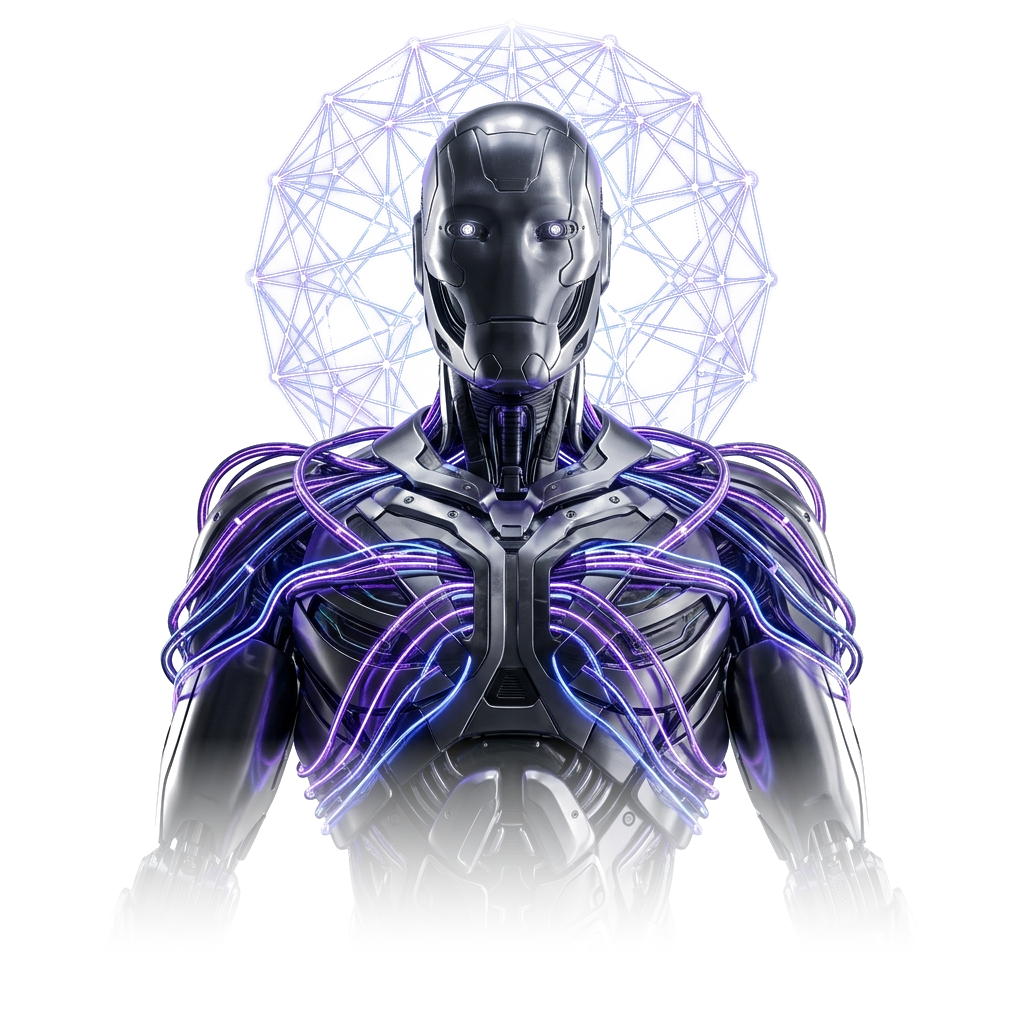
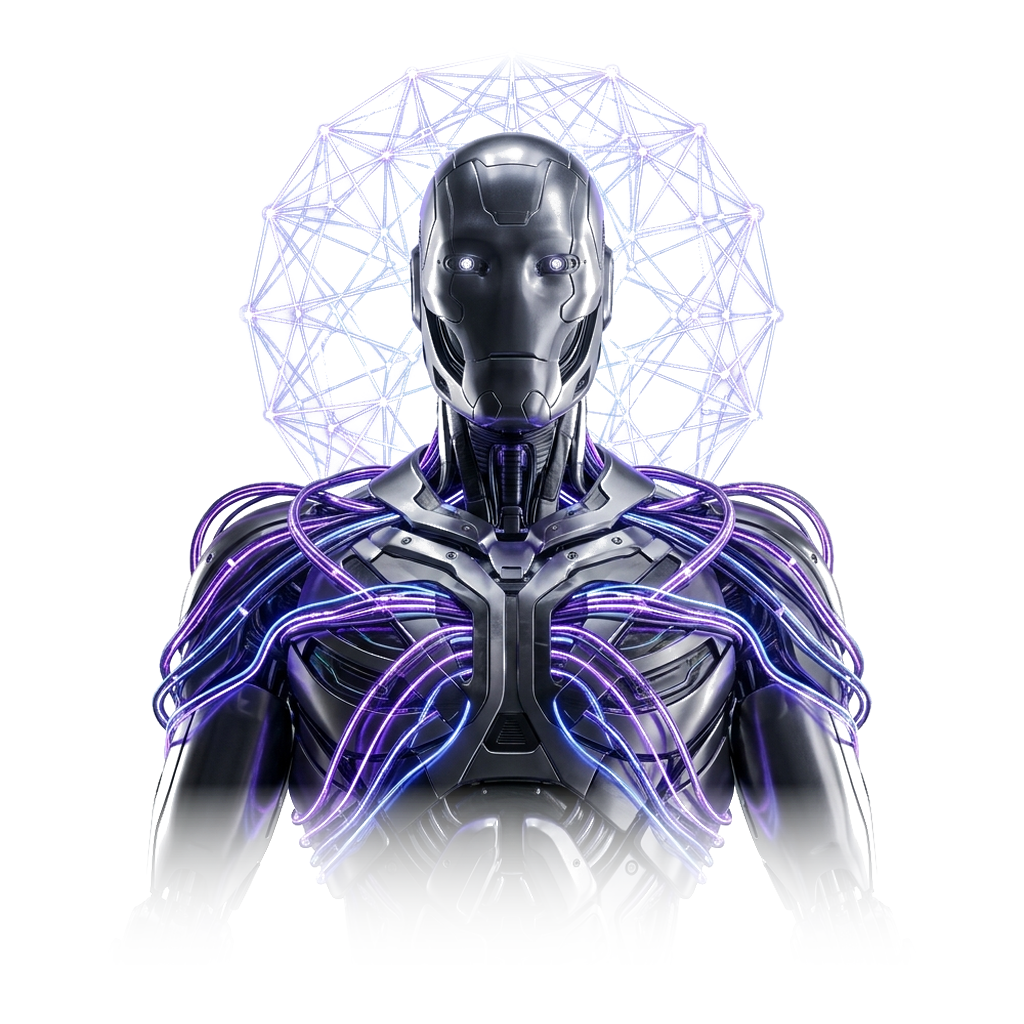
feat: scale up boss container and responsive layout for iPhone 16 Pro Max and tablets

diff --git a/components/BossView.vue b/components/BossView.vue
@@ -218,7 +218,7 @@ const triggerHit = (type: 'free' | 'power', event?: MouseEvent | TouchEvent) => 
 
 <template>
   <div 
-    class="h-full flex-1 flex flex-col justify-between items-center px-4 sm:px-6 pt-1 pb-20 sm:pb-24 max-w-md sm:max-w-lg md:max-w-xl lg:max-w-2xl mx-auto w-full select-none overflow-hidden transition-colors duration-500"
+    class="h-full flex-1 flex flex-col justify-between items-center px-3 sm:px-6 pt-1 pb-16 sm:pb-20 max-w-lg sm:max-w-xl md:max-w-2xl lg:max-w-3xl mx-auto w-full select-none overflow-hidden transition-colors duration-500"
     @mousemove="handlePointerMove"
     @touchmove="handlePointerMove"
     @mouseleave="resetTilt"
@@ -341,10 +341,10 @@ const triggerHit = (type: 'free' | 'power', event?: MouseEvent | TouchEvent) => 
         />
       </div>
 
-      <!-- LAYER 3: THE 3D BOSS CHARACTER CONTAINER -->
+      <!-- LAYER 3: THE 3D BOSS CHARACTER CONTAINER (EXPANDS FOR IPHONE 16 PRO MAX & TABLETS) -->
       <div 
         @click="freeHitAvailable ? triggerHit('free', $event) : triggerHit('power', $event)"
-        class="relative w-full h-full max-h-[44vh] sm:max-h-[50vh] max-w-[360px] sm:max-w-[460px] md:max-w-[540px] aspect-square cursor-pointer flex items-center justify-center transition-transform duration-100 ease-out active:scale-95 my-auto"
+        class="relative w-full h-full max-h-[46vh] sm:max-h-[50vh] md:max-h-[55vh] max-w-[min(94vw,430px)] sm:max-w-[500px] md:max-w-[580px] aspect-square cursor-pointer flex items-center justify-center transition-transform duration-100 ease-out active:scale-95 my-auto"
         :class="{ 'animate-shake': isShaking }"
         :style="{
           transform: `perspective(1000px) rotateX(${tiltX}deg) rotateY(${tiltY}deg)`,
@@ -356,9 +356,9 @@ const triggerHit = (type: 'free' | 'power', event?: MouseEvent | TouchEvent) => 
           <img 
             :src="bossImage" 
             :alt="bossName" 
-            class="w-full h-full object-contain select-none pointer-events-none transition-transform duration-100"
+            class="w-full h-full object-contain select-none pointer-events-none transition-transform duration-100 scale-105 sm:scale-105"
             :class="[
-              isShaking ? 'brightness-125 filter contrast-125 !scale-105' : '',
+              isShaking ? 'brightness-125 filter contrast-125 !scale-110' : '',
               isWhiteTheme ? 'mix-blend-multiply' : ''
             ]"
           />
@@ -408,7 +408,7 @@ const triggerHit = (type: 'free' | 'power', event?: MouseEvent | TouchEvent) => 
     </div>
 
     <!-- PROMINENT HP DISPLAY DIRECTLY UNDER BOSS -->
-    <div class="w-full shrink-0 max-w-[380px] sm:max-w-[460px] px-2 z-30">
+    <div class="w-full shrink-0 max-w-[420px] sm:max-w-[480px] md:max-w-[540px] px-2 z-30">
       <!-- Direct HP Numbers & Percentage -->
       <div class="flex items-center justify-between font-mono mb-1 px-0.5">
         <div 
@@ -446,7 +446,7 @@ const triggerHit = (type: 'free' | 'power', event?: MouseEvent | TouchEvent) => 
     </div>
 
     <!-- WIDER ACTION BUTTONS (ALWAYS VISIBLE ABOVE BOTTOM NAV ON ANY SCREEN) -->
-    <div class="w-full shrink-0 max-w-[380px] sm:max-w-[460px] space-y-2 mt-2 px-1 z-30">
+    <div class="w-full shrink-0 max-w-[420px] sm:max-w-[480px] md:max-w-[540px] space-y-2 mt-2 px-1 z-30">
       
       <!-- FREE DAILY STRIKE (ATTACK + CLAIM 20 TOKENS) -->
       <button 
